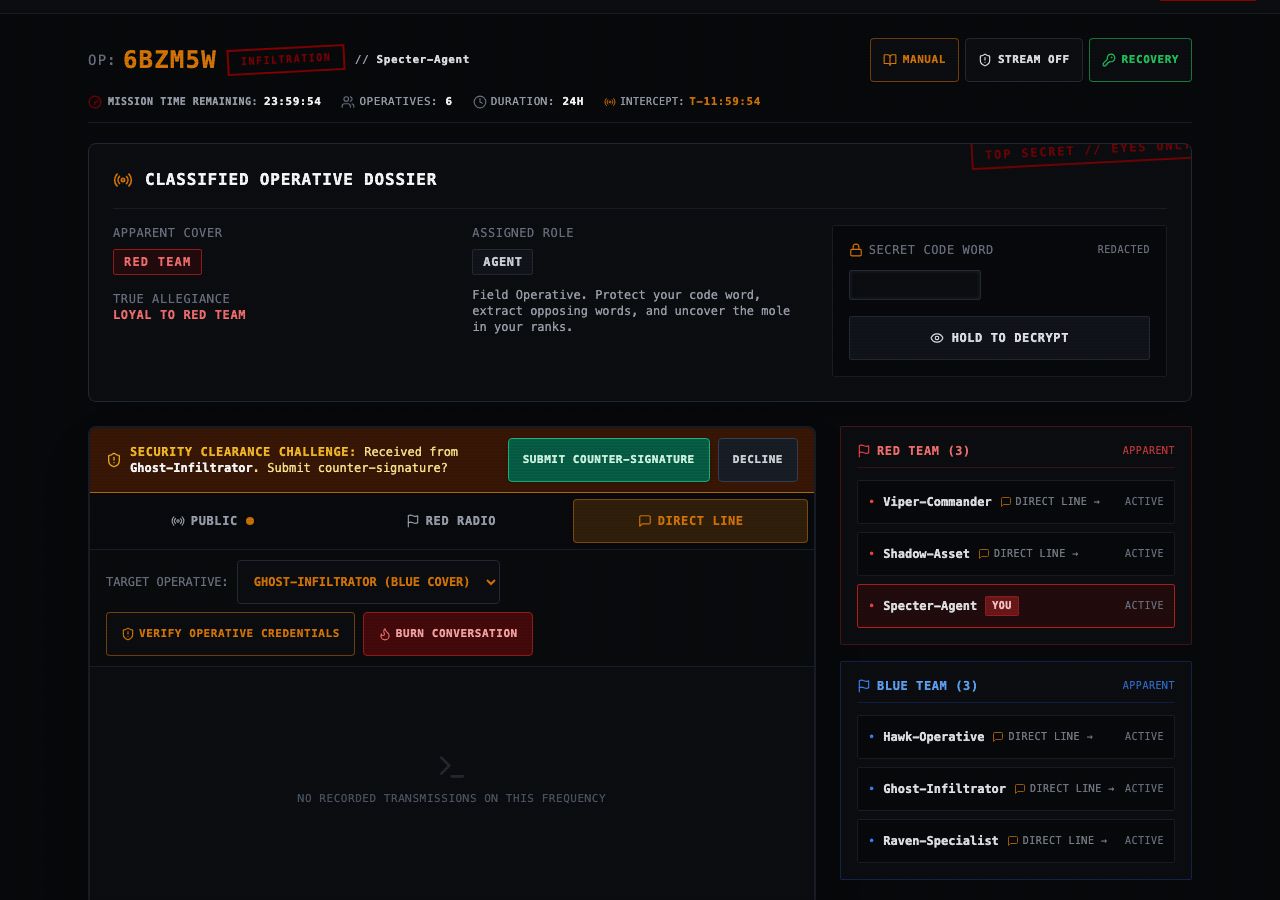
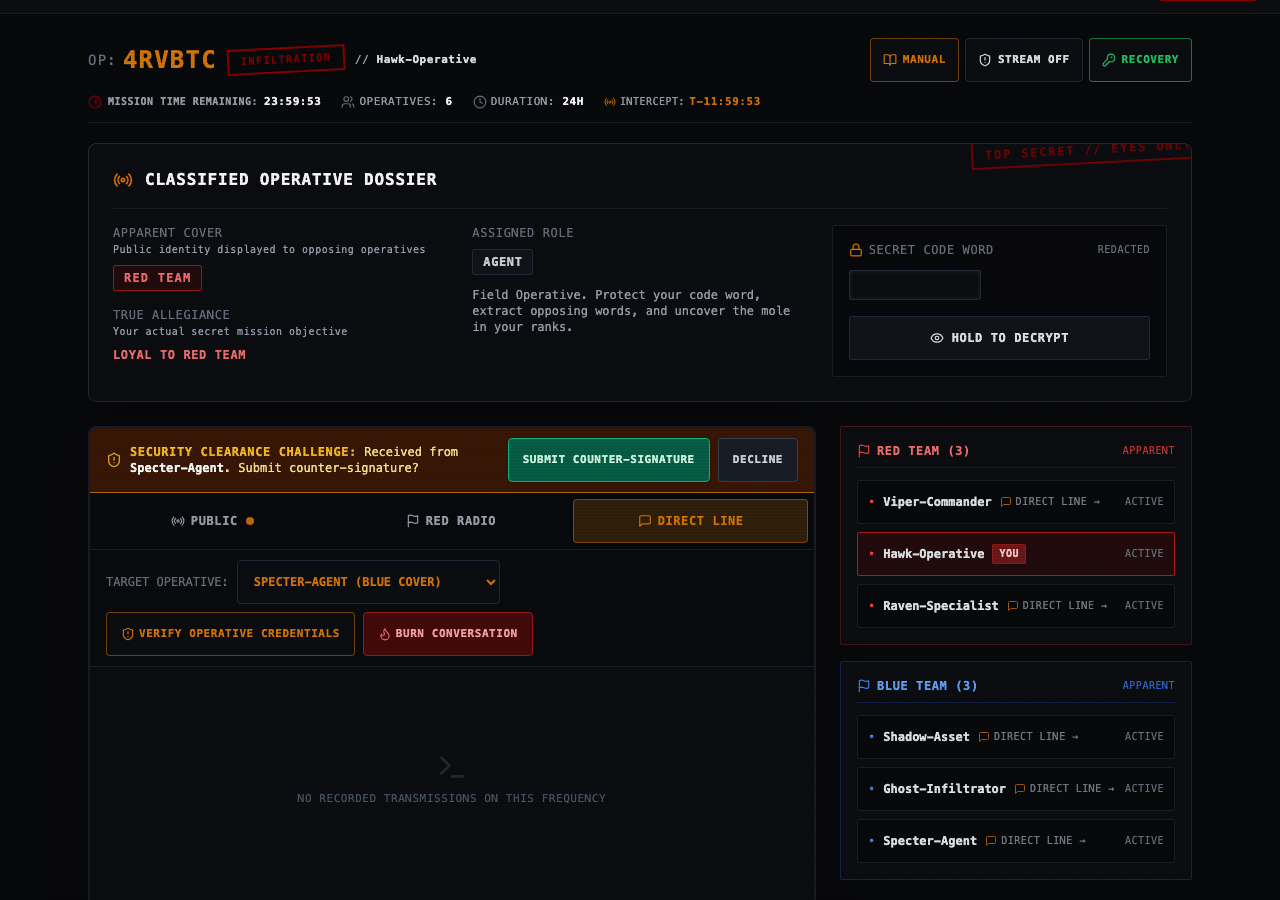
feat(ux): add high-stakes confirmation modals, optimistic comms dispatch, and jargon clarity

diff --git a/src/app/room/[code]/page.tsx b/src/app/room/[code]/page.tsx
@@ -117,6 +117,8 @@ export default function RoomPage() {
   const [godData, setGodData] = useState<any>(null);
   const [isDevActionLoading, setIsDevActionLoading] = useState(false);
   const [isStreamSafe, setIsStreamSafe] = useState(false);
+  const [isConfirmingBurn, setIsConfirmingBurn] = useState(false);
+  const [isConfirmingVerdict, setIsConfirmingVerdict] = useState(false);
 
   const decryptTimerRef = useRef<NodeJS.Timeout | null>(null);
   const messagesEndRef = useRef<HTMLDivElement | null>(null);
@@ -768,10 +770,14 @@ export default function RoomPage() {
     }
   }, [gameState?.self.role]);
 
-  // Keyboard shortcut: Escape dismisses Field Manual
+  // Keyboard shortcut: Escape dismisses Field Manual & confirmation modals
   useEffect(() => {
     const handleKeyDown = (e: KeyboardEvent) => {
-      if (e.key === "Escape") setIsManualOpen(false);
+      if (e.key === "Escape") {
+        setIsManualOpen(false);
+        setIsConfirmingBurn(false);
+        setIsConfirmingVerdict(false);
+      }
     };
     window.addEventListener("keydown", handleKeyDown);
     return () => window.removeEventListener("keydown", handleKeyDown);
@@ -948,33 +954,63 @@ export default function RoomPage() {
       recipientId = selectedPeerId;
     }
 
+    const contentToSend = messageInput.trim();
+    setMessageInput("");
     setIsSendingMessage(true);
+
+    // Optimistic teletype rendering
+    const tempId = `optimistic-${Date.now()}`;
+    const optimisticMessage: Message = {
+      id: tempId,
+      roomId: gameState.room.code,
+      senderId: gameState.self.id,
+      senderName: gameState.self.displayName,
+      senderApparentTeam: gameState.self.apparentTeam,
+      channelType,
+      content: contentToSend,
+      recipientId,
+      createdAt: new Date().toISOString(),
+    };
+    setMessages((prev) => [...prev, optimisticMessage]);
+    scrollToMessagesBottom(true);
+
     try {
       const res = await authFetch(`/api/rooms/${code}/messages`, {
         method: "POST",
         headers: { "Content-Type": "application/json" },
         body: JSON.stringify({
           channelType,
-          content: messageInput.trim(),
+          content: contentToSend,
           recipientId,
         }),
       });
       if (res.ok) {
-        setMessageInput("");
         await fetchMessages();
         scrollToMessagesBottom(true);
       } else {
         const data = await res.json();
+        // Rollback optimistic message on error
+        setMessages((prev) => prev.filter((m) => m.id !== tempId));
+        setMessageInput(contentToSend);
         setError(data.error || "Failed to transmit message");
       }
+    } catch {
+      setMessages((prev) => prev.filter((m) => m.id !== tempId));
+      setMessageInput(contentToSend);
     } finally {
       setIsSendingMessage(false);
     }
   };
 
-  const handleBurnConversation = async () => {
+  const handleBurnConversation = () => {
+    if (!selectedPeerId || !code || isBurning) return;
+    setIsConfirmingBurn(true);
+  };
+
+  const executeBurnDM = async () => {
     if (!selectedPeerId || !code || isBurning) return;
     setIsBurning(true);
+    setIsConfirmingBurn(false);
     try {
       const res = await authFetch(`/api/rooms/${code}/messages/burn`, {
         method: "POST",
@@ -1099,9 +1135,15 @@ export default function RoomPage() {
     setSpymasterGuesses((prev) => prev.filter((w) => w !== wordToRemove));
   };
 
-  const handleSubmitVerdict = async () => {
+  const handleSubmitVerdict = () => {
+    if (!code || isSubmittingVerdict || spymasterGuesses.length === 0) return;
+    setIsConfirmingVerdict(true);
+  };
+
+  const executeSubmitVerdict = async () => {
     if (!code || isSubmittingVerdict || spymasterGuesses.length === 0) return;
     setIsSubmittingVerdict(true);
+    setIsConfirmingVerdict(false);
     setVerdictError(null);
     try {
       const res = await authFetch(`/api/rooms/${code}/verdict/submit`, {
@@ -1532,17 +1574,23 @@ export default function RoomPage() {
       {moleToast && moleToast.isMole && (
         <div
           id="mole-verification-toast"
-          className="fixed top-6 right-6 z-50 bg-emerald-950 border-2 border-emerald-500 text-emerald-300 px-6 py-4 shadow-2xl rounded font-mono text-sm flex items-center gap-3 animate-pulse"
+          className="fixed top-6 right-6 z-50 bg-emerald-950 border-2 border-emerald-500 text-emerald-300 px-6 py-4 shadow-2xl rounded font-mono text-sm flex flex-col gap-2.5 animate-pulse overflow-hidden"
         >
-          <div className="w-3 h-3 rounded-full bg-emerald-500 animate-ping" />
-          <div>
-            <div className="font-bold text-emerald-400 uppercase tracking-widest text-xs">
-              Security Handshake Confirmed
+          <div className="flex items-center gap-3">
+            <div className="w-3 h-3 rounded-full bg-emerald-500 animate-ping shrink-0" />
+            <div>
+              <div className="font-bold text-emerald-400 uppercase tracking-widest text-xs">
+                Security Handshake Confirmed
+              </div>
+              <div className="font-semibold text-white">{moleToast.message}</div>
+              <div className="text-nano text-emerald-400/70 mt-1">
+                This notification will self-destruct in 3s...
+              </div>
             </div>
-            <div className="font-semibold text-white">{moleToast.message}</div>
-            <div className="text-nano text-emerald-400/70 mt-1">
-              This notification will self-destruct in 3s...
-            </div>
+          </div>
+          {/* Visual self-destruct sweep bar */}
+          <div className="w-full bg-emerald-950 h-1 rounded-full overflow-hidden border border-emerald-900">
+            <div className="bg-emerald-400 h-full animate-shrink-width" />
           </div>
         </div>
       )}
@@ -2425,7 +2473,10 @@ export default function RoomPage() {
             <div className="grid grid-cols-1 md:grid-cols-3 gap-6 font-mono text-sm border-t border-carbon-800 pt-4">
               {/* Apparent Cover vs True Allegiance */}
               <div className="space-y-2">
-                <div className="text-xs text-gray-500 uppercase tracking-wider">Apparent Cover</div>
+                <div>
+                  <div className="text-xs text-gray-500 uppercase tracking-wider">Apparent Cover</div>
+                  <p className="text-nano text-gray-400 font-mono mt-0.5">Public identity displayed to opposing operatives</p>
+                </div>
                 <div className="flex items-center gap-2">
                   <span
                     id="self-apparent-team"
@@ -2441,6 +2492,7 @@ export default function RoomPage() {
 
                 <div className="pt-2">
                   <div className="text-xs text-gray-500 uppercase tracking-wider">True Allegiance</div>
+                  <p className="text-nano text-gray-400 font-mono mt-0.5 mb-2">Your actual secret mission objective</p>
                   {self.role === "MOLE" ? (
                     isDecrypted ? (
                       <div
@@ -3124,10 +3176,10 @@ export default function RoomPage() {
                     </div>
                     <button
                       onClick={() => setDismissedAlerts((prev) => ({ ...prev, [`denied_${selectedPeerId}`]: true }))}
-                      className="text-red-400 hover:text-white p-0.5 ml-2 cursor-pointer"
+                      className="min-h-[44px] min-w-[44px] flex items-center justify-center text-red-400 hover:text-white ml-2 cursor-pointer rounded"
                       aria-label="Dismiss alert"
                     >
-                      <X className="w-3.5 h-3.5" />
+                      <X className="w-4 h-4" />
                     </button>
                   </div>
                 )}
@@ -3148,10 +3200,10 @@ export default function RoomPage() {
                     </div>
                     <button
                       onClick={() => setDismissedAlerts((prev) => ({ ...prev, [`declined_${selectedPeerId}`]: true }))}
-                      className="text-amber-400 hover:text-white p-0.5 ml-2 cursor-pointer"
+                      className="min-h-[44px] min-w-[44px] flex items-center justify-center text-amber-400 hover:text-white ml-2 cursor-pointer rounded"
                       aria-label="Dismiss alert"
                     >
-                      <X className="w-3.5 h-3.5" />
+                      <X className="w-4 h-4" />
                     </button>
                   </div>
                 )}
@@ -3583,6 +3635,131 @@ export default function RoomPage() {
         </div>
       )}
 
+      {/* BURN CONVERSATION CONFIRMATION MODAL */}
+      {isConfirmingBurn && (
+        <div
+          id="burn-confirmation-modal"
+          role="dialog"
+          aria-modal="true"
+          aria-labelledby="burn-modal-title"
+          className="fixed inset-0 z-50 bg-black/80 backdrop-blur-sm flex items-center justify-center p-4 sm:p-6 animate-in fade-in duration-200"
+          onClick={(e) => {
+            if (e.target === e.currentTarget) setIsConfirmingBurn(false);
+          }}
+        >
+          <div className="bg-carbon-900 border-2 border-classified-crimson rounded-lg max-w-md w-full p-5 sm:p-6 shadow-2xl font-mono space-y-4">
+            <div className="flex items-center gap-3">
+              <div className="p-2 bg-red-950/80 border border-red-800 rounded">
+                <Flame className="w-6 h-6 text-classified-crimson" />
+              </div>
+              <div>
+                <h3 id="burn-modal-title" className="text-sm sm:text-base font-bold text-white uppercase tracking-wider">
+                  Authorize Forensic Incineration
+                </h3>
+                <span className="text-nano text-red-400 uppercase tracking-widest font-bold">
+                  DESTRUCTIVE ACTION // ZERO RECOVERY
+                </span>
+              </div>
+            </div>
+
+            <p className="text-xs text-gray-300 leading-relaxed">
+              This protocol will permanently shred and purge all encrypted telegraph logs between your station and{" "}
+              <strong className="text-white">{activePeer?.displayName || "this operative"}</strong>.
+              Incineration cannot be undone by Central Command.
+            </p>
+
+            <div className="flex items-center justify-end gap-3 pt-2">
+              <button
+                id="cancel-burn-btn"
+                type="button"
+                onClick={() => setIsConfirmingBurn(false)}
+                className="min-h-[44px] px-4 py-2 bg-carbon-800 hover:bg-carbon-700 text-white rounded font-mono uppercase text-xs tracking-wider transition-colors cursor-pointer"
+              >
+                ABORT // KEEP LOGS
+              </button>
+              <button
+                id="confirm-burn-btn"
+                type="button"
+                onClick={executeBurnDM}
+                className="min-h-[44px] px-4 py-2 bg-red-950 hover:bg-red-900 text-red-300 border border-red-800 rounded font-mono font-bold uppercase text-xs tracking-wider transition-colors flex items-center gap-1.5 cursor-pointer active:scale-95"
+              >
+                <Flame className="w-4 h-4 text-red-400" />
+                EXECUTE INCINERATION
+              </button>
+            </div>
+          </div>
+        </div>
+      )}
+
+      {/* VERDICT AUTHENTICATION CONFIRMATION MODAL (TWO-MAN RULE) */}
+      {isConfirmingVerdict && (
+        <div
+          id="verdict-confirmation-modal"
+          role="dialog"
+          aria-modal="true"
+          aria-labelledby="verdict-modal-title"
+          className="fixed inset-0 z-50 bg-black/80 backdrop-blur-sm flex items-center justify-center p-4 sm:p-6 animate-in fade-in duration-200"
+          onClick={(e) => {
+            if (e.target === e.currentTarget) setIsConfirmingVerdict(false);
+          }}
+        >
+          <div className="bg-carbon-900 border-2 border-classified-amber rounded-lg max-w-lg w-full p-5 sm:p-6 shadow-2xl font-mono space-y-4">
+            <div className="flex items-center gap-3">
+              <div className="p-2 bg-amber-950/80 border border-amber-800 rounded">
+                <Lock className="w-6 h-6 text-classified-amber" />
+              </div>
+              <div>
+                <h3 id="verdict-modal-title" className="text-sm sm:text-base font-bold text-white uppercase tracking-wider">
+                  Two-Man Rule // Final Lock-In
+                </h3>
+                <span className="text-nano text-classified-amber uppercase tracking-widest font-bold">
+                  OFFICIAL SPYMASTER TRANSMISSION
+                </span>
+              </div>
+            </div>
+
+            <p className="text-xs text-gray-300 leading-relaxed">
+              You are about to transmit the official intelligence verdict for the{" "}
+              <strong className="text-white">{self.apparentTeam} FACTION</strong>. Once transmitted, your code word deductions and mole indictment are permanently locked into Central Command.
+            </p>
+
+            {/* Verdict Summary Review */}
+            <div className="bg-carbon-950 border border-carbon-800 rounded p-3 space-y-2 text-xs">
+              <div className="flex justify-between items-center border-b border-carbon-800 pb-1.5">
+                <span className="text-gray-500 uppercase tracking-wider">Target Words ({spymasterGuesses.length}):</span>
+                <span className="text-classified-amber font-bold">{spymasterGuesses.join(", ")}</span>
+              </div>
+              <div className="flex justify-between items-center pt-0.5">
+                <span className="text-gray-500 uppercase tracking-wider">Indicted Mole:</span>
+                <span className={moleIndictmentId ? "text-classified-crimson font-bold" : "text-gray-400 font-bold"}>
+                  {moleIndictmentId ? (players.find((p) => p.id === moleIndictmentId)?.displayName || "DECLARED") : "NONE DECLARED"}
+                </span>
+              </div>
+            </div>
+
+            <div className="flex items-center justify-end gap-3 pt-2">
+              <button
+                id="cancel-verdict-btn"
+                type="button"
+                onClick={() => setIsConfirmingVerdict(false)}
+                className="min-h-[44px] px-4 py-2 bg-carbon-800 hover:bg-carbon-700 text-white rounded font-mono uppercase text-xs tracking-wider transition-colors cursor-pointer"
+              >
+                REVIEW VERDICT
+              </button>
+              <button
+                id="confirm-verdict-btn"
+                type="button"
+                onClick={executeSubmitVerdict}
+                className="min-h-[44px] px-4 py-2 bg-classified-amber text-black hover:bg-amber-400 font-mono font-bold uppercase text-xs tracking-wider rounded transition-colors flex items-center gap-1.5 cursor-pointer active:scale-95"
+              >
+                <Lock className="w-4 h-4" />
+                AUTHENTICATE & TRANSMIT
+              </button>
+            </div>
+          </div>
+        </div>
+      )}
+
       {/* INCOMING DM NOTIFICATION TOAST */}
       {dmAlert && (
         <div
@@ -3602,9 +3779,10 @@ export default function RoomPage() {
                 e.stopPropagation();
                 setDmAlert(null);
               }}
-              className="text-gray-400 hover:text-white p-0.5"
+              className="min-h-[44px] min-w-[44px] flex items-center justify-center text-gray-400 hover:text-white cursor-pointer rounded"
+              aria-label="Dismiss transmission alert"
             >
-              <X className="w-3.5 h-3.5" />
+              <X className="w-4 h-4" />
             </button>
           </div>
           <div className="text-xs text-white font-bold mb-0.5">{dmAlert.senderName}</div>

diff --git a/tests/harness/multiplayer-harness.ts b/tests/harness/multiplayer-harness.ts
@@ -247,6 +247,10 @@ export class SixPlayerHarness {
   public async burnDM(playerIndex: number): Promise<void> {
     const op = this.sessions[playerIndex];
     await op.page.click("#burn-dm-btn");
+    const confirmBtn = op.page.locator("#confirm-burn-btn");
+    if (await confirmBtn.isVisible({ timeout: 1500 }).catch(() => false)) {
+      await confirmBtn.click();
+    }
   }
 
   /**
@@ -373,6 +377,10 @@ export class SixPlayerHarness {
   public async spymasterSubmitVerdict(playerIndex: number): Promise<void> {
     const op = this.sessions[playerIndex];
     await op.page.click("#lock-in-verdict-btn");
+    const confirmBtn = op.page.locator("#confirm-verdict-btn");
+    if (await confirmBtn.isVisible({ timeout: 1500 }).catch(() => false)) {
+      await confirmBtn.click();
+    }
   }
 
   /**

diff --git a/src/app/globals.css b/src/app/globals.css
@@ -98,3 +98,15 @@ html {
   transition: width 2s linear;
 }
 
+@keyframes shrinkWidth {
+  from {
+    width: 100%;
+  }
+  to {
+    width: 0%;
+  }
+}
+
+.animate-shrink-width {
+  animation: shrinkWidth 3s linear forwards;
+}
